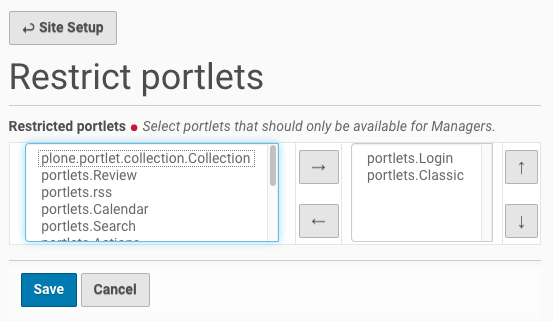
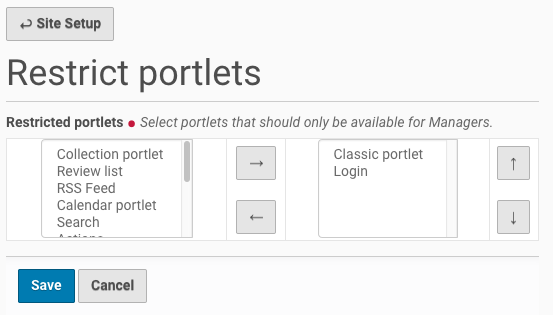
Show title of portlets in control panel.
And translate these titles.

diff --git a/src/collective/restrictportlets/interfaces.py b/src/collective/restrictportlets/interfaces.py
@@ -2,6 +2,7 @@
 """Module where all interfaces, events and exceptions live."""
 
 from collective.restrictportlets import _
+from plone import api
 from plone.portlets.interfaces import IPortletType
 from zope import schema
 from zope.component import getUtilitiesFor
@@ -19,10 +20,14 @@ class PortletTypesVocabulary(object):
 
     def __call__(self, context):
         # Get all portlets, for all portlet manager interfaces.
-        add_views = [
-            portlet.addview for (name, portlet) in
-            getUtilitiesFor(IPortletType)]
-        return schema.vocabulary.SimpleVocabulary.fromValues(add_views)
+        portlets = [
+            schema.vocabulary.SimpleVocabulary.createTerm(
+                portlet.addview,  # value
+                portlet.addview,  # token
+                api.portal.translate(portlet.title)  # title
+            ) for (name, portlet)
+            in getUtilitiesFor(IPortletType)]
+        return schema.vocabulary.SimpleVocabulary(portlets)
 
 
 PortletTypesVocabularyFactory = PortletTypesVocabulary()
